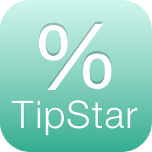
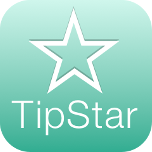
redesign

Changed region(s): [[0.1842, 0.0526, 0.7895, 0.6316], [0.2895, 0.6053, 0.3158, 0.6316]]

diff --git a/index.html b/index.html
@@ -1,5 +1,5 @@
 <!DOCTYPE html>
-<html ng-app="percenterApp" id="ng-app">
+<html ng-app="TipStarApp" id="ng-app">
 <!--[if lt IE 7]>      <html class="no-js lt-ie9 lt-ie8 lt-ie7"> <![endif]-->
 <!--[if IE 7]>         <html class="no-js lt-ie9 lt-ie8"> <![endif]-->
 <!--[if IE 8]>         <html class="no-js lt-ie9"> <![endif]-->
@@ -7,8 +7,8 @@
 <head>
     <meta charset="utf-8">
     <meta http-equiv="X-UA-Compatible" content="IE=edge,chrome=1">
-    <title>Percenter - A percentage calculator</title>
-    <meta name="description" content="A percentage calculator">
+    <title>Tip Star - A percentage calculator</title>
+    <meta name="description" content="A tip and percentage calculator">
     <meta name="viewport" content="width=device-width, initial-scale=1.0, maximum-scale=1.0, user-scalable=0">
 
     <link rel="stylesheet" href="css/bootstrap.min.css">
@@ -51,7 +51,7 @@
                 <span class="icon-bar"></span>
                 <span class="icon-bar"></span>
             </button>
-            <a class="navbar-brand" href="index.html">Percenter</a>
+            <a class="navbar-brand" href="index.html">Tip Star</a>
         </div>
         <div class="navbar-collapse collapse">
             <ul class="nav navbar-nav">
@@ -64,32 +64,32 @@
     <div class="jumbotron hero">
         <div class="container">
             <div class="heroBanner">
-                <h1>Percenter</h1>
-                <p>A free and simple percentage calculator app</p>
-                <p class="hidden-xs">with responsive design and offline capabilities.</p>
-                <p><a class="btn btn-primary btn-lg" role="button" style="margin-top: 5px" href="app.html">Start here &raquo;</a></p>
+                <h1>Tip Star</h1>
+                <p>A free tip and percentage calculator app.</p>
+                <p class="hidden-xs">Built with responsive design and offline mode, so you can use it on any device everywhere you go. Split the amount by people, round it all up and...</p>
+                <p><a class="btn btn-primary btn-lg" role="button" style="margin-top: 5px" href="app.html">Tip like a star &raquo;</a></p>
             </div>
          </div>
     </div>
 
 <article>
     <div class="container teaser">
-        <h2>Do you often find yourself ...</h2>
-        <p class="lead">wondering how much you really saved on those sale events? Or asking how much tip you and your friends have to pay? And wouldn't it be nice to know the final price including estimated tax before the end of checkout? The free Percenter app might have the answer for you ...</p>
+        <h2>There is more...</h2>
+        <p class="lead">Tip Star not only calculates tip, but als features a general purpose percentage calculator and a comparison mode. Now you can find out how much you really save during the next sale event. Or you could even use it to estimate taxes so the final price at checkout isn't a big surprise for you. And best of all? It's completely free. <a href="app.html">Try it now &raquo;</a></p>
     </div>
     <div class="container mainArticle">
         <h2>About</h2>
-        <p>Percenter is a simple percentage calculator that let’s you easily and instantly calculate percentages. Calculating discount, tax, or tip are just three of many examples where percentage calculation can help everyday.</p>
+        <p>Tip Star is a simple percentage calculator that let’s you easily and instantly calculate percentages. Calculating discount, tax, or tip are just three of many examples where percentage calculation can help everyday.</p>
         <p>The “apply” mode allows you to enter an amount and a percentage value. Different results based on your input are shown immediately. Besides adding (e.g. to calculate tips) and subtracting (discounts anyone?), it also calculates increase and reduction figures (would you like to know how much VAT you paid in Europe?). You can also easily divide the result by a number you specify. So splitting the bill becomes a little bit more easy.</p>
         <p>The “compare” mode works similar, but allows you to enter two amounts that the tool then compares. For example you could easily check how much they increased the rent this year again.</p>
         <p>The responsive app works on computers, tablets and mobile devices. The interface automatically adapts to provide you with the best user experience depending on your available screen size.</p>
-        <p>Not online? Not a problem. Percenter.us uses the new HTML5 offline feature, so that you can use the app whenever you need it.</p>
+        <p>Not online? Not a problem. Tip Star.us uses the new HTML5 offline feature, so that you can use the app whenever you need it.</p>
         <p>And best of it all? It’s absolutely free to use.</p>
 
         <h3>Mobile friendly</h3>
-        <img src="apple-touch-icon-57x57-precomposed.png" style="float: left; margin-right: 10px; width: 50px" alt="Percenter app icon"/>
+        <img src="apple-touch-icon-57x57-precomposed.png" style="float: left; margin-right: 10px; width: 50px" alt="Tip Star app icon"/>
         <p>This application supports multiple display formats and offline use. Please bookmark me!<br/>
-            If you are using an iPhone or iPad, you can also easily add Percenter to your home screen. In Safari just click on the little export icon with the arrow in the toolbar at the bottom.</p>
+            If you are using an iPhone or iPad, you can also easily add Tip Star to your home screen. In Safari just click on the little export icon with the arrow in the toolbar at the bottom.</p>
         <div class="row">
             <div class="col-sm-4">
                 <div class="figure" style="width: 226px">

diff --git a/legal.html b/legal.html
@@ -1,5 +1,5 @@
 <!DOCTYPE html>
-<html ng-app="percenterApp" id="ng-app" manifest="/application.manifest">
+<html ng-app="TipStarApp" id="ng-app" manifest="/application.manifest">
 <!--[if lt IE 7]>      <html class="no-js lt-ie9 lt-ie8 lt-ie7"> <![endif]-->
 <!--[if IE 7]>         <html class="no-js lt-ie9 lt-ie8"> <![endif]-->
 <!--[if IE 8]>         <html class="no-js lt-ie9"> <![endif]-->
@@ -7,8 +7,8 @@
 <head>
     <meta charset="utf-8">
     <meta http-equiv="X-UA-Compatible" content="IE=edge,chrome=1">
-    <title>Percenter - A percentage calculator</title>
-    <meta name="description" content="A percentage calculator">
+    <title>Tip Star - A percentage calculator</title>
+    <meta name="description" content="A tip and percentage calculator">
     <meta name="viewport" content="width=device-width, initial-scale=1.0, maximum-scale=1.0, user-scalable=0">
 
     <link rel="stylesheet" href="css/bootstrap.min.css">
@@ -51,7 +51,7 @@
                 <span class="icon-bar"></span>
                 <span class="icon-bar"></span>
             </button>
-            <a class="navbar-brand" href="index.html">Percenter</a>
+            <a class="navbar-brand" href="index.html">Tip Star</a>
         </div>
         <div class="navbar-collapse collapse">
             <ul class="nav navbar-nav">
@@ -64,12 +64,12 @@
 <article>
     <div class="container teaser">
         <h2>Legal Notices</h2>
-        <p class="lead">Percenter.us &copy; <a href="http://ruhkopf.name/">Patrick Ruhkopf</a> 2013-2014</p>
+        <p class="lead">TipStar.us &copy; <a href="http://ruhkopf.name/">Patrick Ruhkopf</a> 2013-2014</p>
     </div>
     <div class="container mainArticle">
         <h2>Terms of Use</h2>
         <ol>
-            <li>The following terms of use apply to all visitors to or users of the percenter.us Website (the "Site"). By accessing the Site, you acknowledge acceptance of these terms of use. In the case of any violation of these terms of use, the author reserves the right to seek all remedies available at law and in equity for such violations. The author may amend the terms of use from time to time in its discretion. You shall be bound by any such amendments and should therefore periodically visit this web page to review the then current terms of use to which you are bound.</li>
+            <li>The following terms of use apply to all visitors to or users of the TipStar.us Website (the "Site"). By accessing the Site, you acknowledge acceptance of these terms of use. In the case of any violation of these terms of use, the author reserves the right to seek all remedies available at law and in equity for such violations. The author may amend the terms of use from time to time in its discretion. You shall be bound by any such amendments and should therefore periodically visit this web page to review the then current terms of use to which you are bound.</li>
             <li>The site contents are copyrighted by Patrick Ruhkopf. All rights are reserved.</li>
             <li>Except as specified in these terms of use, nothing contained in the Site shall be construed as conferring any license or right under any patent, trademark or copyright of Patrick Ruhkopf or any third party. Any product, process, service, invention or technology published on this Site may be the subject of intellectual property rights preserved by Patrick Ruhkopf, its subsidiaries or licensors and are not licensed hereunder. No permission is granted to use Patrick Ruhkopf's name, logo, trademarks, trade names or trade dress for any reason.</li>
             <li>All information provided on this Site is intended for informational purposes only and is subject to change or withdrawal by Patrick Ruhkopf at any time without notice. Patrick Ruhkopf assumes no responsibility for the accuracy or completeness of the information on this Site. THE INFORMATION ON THIS SITE IS PROVIDED "AS IS," WITHOUT WARRANTY OF ANY KIND, INCLUDING, WITHOUT LIMITATION, ANY IMPLIED WARRANTIES OF MERCHANTABILITY, FITNESS FOR A PARTICULAR PURPOSE OR NON-INFRINGEMENT. PATRICK RUHKOPF FURTHER DISCLAIMS ANY LIABILITY IN CONNECTION WITH THE SITE OR THE INFORMATION PROVIDED ON THE SITE. Some jurisdictions do not allow the exclusion of implied warranties, so the above exclusion may not apply to you. IN NO EVENT WILL PATRICK RUHKOPF, ITS DIRECTORS, OFFICERS, EMPLOYEES, REPRESENTATIVES OR AGENTS BE LIABLE TO ANY PARTY FOR ANY DIRECT, INDIRECT, SPECIAL OR OTHER CONSEQUENTIAL DAMAGES FOR ANY USE OF THE SITE, THE INFORMATION PRESENTED ON THE SITE, OR ANY OTHER HYPERLINKED WEBSITE, INCLUDING, WITHOUT LIMITATION, ANY LOST PROFITS, BUSINESS INTERRUPTION, LOSS OF DATA OR OTHERWISE, EVEN IF PATRICK RUHKOPF IS EXPRESSLY ADVISED OF POSSIBILITY OF SUCH DAMAGES. </li>

diff --git a/css/main.css b/css/main.css
@@ -330,15 +330,17 @@ img.screenshot {
 
 
 @media screen and (min-width: 768px) {
-    .hero {
+    .hero .container {
         background-image: url('../img/percenter-app-hero.jpg');
         background-repeat:no-repeat;
-        background-position: center center;
+        background-position: right center;
+    }
+
+    .hero {
         text-align: center;
-        padding-bottom: 90px;
     }
     .heroBanner {
-        width: 500px;
+        width: 400px;
         margin-left: auto;
         margin-right: auto;
         padding: 10px 10px;
@@ -354,7 +356,13 @@ img.screenshot {
     }
 
     .heroBanner {
-        padding: 10px 10px;
+        width: 375px;
+    }
+}
+
+@media screen and (min-width: 1170px) {
+    .heroBanner {
+        width: 500px;
     }
 }
 
@@ -366,9 +374,12 @@ h1 {
 }
 
 .heroBanner {
-    background-color: rgba(255, 255, 255, 0.7);
-    margin-left: auto;
+    background-color: rgba(223, 240, 216, 0.7);
+    margin-left: 0px;
     margin-right: auto;
+    color: #FFFFFF;
+    text-shadow: 0px 1px 1px rgba(0, 0, 0, 1);
+    font-family: "HelveticaNeue-Thin", "Helvetica Neue Thin", "Helvetica Neue", Helvetica, Arial, "Lucida Grande", sans-serif;
 }
 
 .heroBanner h1 {
@@ -377,6 +388,11 @@ h1 {
 
 .jumbotron {
     margin-bottom: 0px;
+    padding: 0px;
+}
+
+.jumbotron .container {
+    padding:0px;
 }
 
 .teaser {
@@ -391,9 +407,9 @@ h1 {
 
 @media only screen and (min-width: 480px) {
 
-/* ====================
-    INTERMEDIATE: Menu
-   ==================== */
+    /* ====================
+        INTERMEDIATE: Menu
+       ==================== */
 
     nav a {
         float: left;
@@ -411,9 +427,9 @@ h1 {
         margin-right: 0;
     }
 
-/* ========================
-    INTERMEDIATE: IE Fixes
-   ======================== */
+    /* ========================
+        INTERMEDIATE: IE Fixes
+       ======================== */
 
     nav ul li {
         display: inline;
@@ -426,20 +442,20 @@ h1 {
 
 @media only screen and (min-width: 768px) {
 
-/* ====================
-    WIDE: CSS3 Effects
-   ==================== */
+    /* ====================
+        WIDE: CSS3 Effects
+       ==================== */
 
     .header-container,
     .main aside {
         -webkit-box-shadow: 0 5px 10px #aaa;
-           -moz-box-shadow: 0 5px 10px #aaa;
-                box-shadow: 0 5px 10px #aaa;
+        -moz-box-shadow: 0 5px 10px #aaa;
+        box-shadow: 0 5px 10px #aaa;
     }
 
-/* ============
-    WIDE: Menu
-   ============ */
+    /* ============
+        WIDE: Menu
+       ============ */
 
     .title {
         float: left;
@@ -450,9 +466,9 @@ h1 {
         width: 38%;
     }
 
-/* ============
-    WIDE: Main
-   ============ */
+    /* ============
+        WIDE: Main
+       ============ */
 
     .main article {
         float: left;
@@ -467,9 +483,9 @@ h1 {
 
 @media only screen and (min-width: 1140px) {
 
-/* ===============
-    Maximal Width
-   =============== */
+    /* ===============
+        Maximal Width
+       =============== */
 
     .wrapper {
         width: 1026px; /* 1140px - 10% for margins */

diff --git a/app.html b/app.html
@@ -1,5 +1,5 @@
 <!DOCTYPE html>
-<html ng-app="percenterApp" id="ng-app" manifest="/application.manifest">
+<html ng-app="TipStarApp" id="ng-app" manifest="/application.manifest">
 <!--[if lt IE 7]>      <html class="no-js lt-ie9 lt-ie8 lt-ie7"> <![endif]-->
 <!--[if IE 7]>         <html class="no-js lt-ie9 lt-ie8"> <![endif]-->
 <!--[if IE 8]>         <html class="no-js lt-ie9"> <![endif]-->
@@ -7,8 +7,8 @@
     <head>
         <meta charset="utf-8">
         <meta http-equiv="X-UA-Compatible" content="IE=edge,chrome=1">
-        <title>Percenter - A percentage calculator</title>
-        <meta name="description" content="A percentage calculator">
+        <title>Tip Star - A percentage calculator</title>
+        <meta name="description" content="A tip and percentage calculator">
         <meta name="viewport" content="width=device-width, initial-scale=1.0, maximum-scale=1.0, user-scalable=0">
 
         <link rel="stylesheet" href="css/bootstrap.min.css">
@@ -54,7 +54,7 @@
                 <span class="icon-bar"></span>
                 <span class="icon-bar"></span>
               </button>
-              <a class="navbar-brand" href="index.html">Percenter</a>
+              <a class="navbar-brand" href="index.html">Tip Star</a>
             </div>
             <div class="navbar-collapse collapse">
               <ul class="nav navbar-nav">
@@ -66,7 +66,7 @@
           </div>
         </div>
 
-        <div class="container" ng-controller="PercenterCtrl">
+        <div class="container mainArticle" ng-controller="TipStarCtrl">
             <div class="tab-content">
 
                 <div class="tab-pane fade in active" id="calculateTip">
@@ -368,9 +368,9 @@
 
             <div class="container nopadding">
                 <h3>Mobile friendly</h3>
-                <img src="apple-touch-icon-57x57-precomposed.png" style="float: left; margin-right: 10px; width: 50px" alt="Percenter app icon"/>
+                <img src="apple-touch-icon-57x57-precomposed.png" style="float: left; margin-right: 10px; width: 50px" alt="Tip Star app icon"/>
                 <p>This application supports multiple display formats and offline use. Please bookmark me!<br/>
-                   If you are using an iPhone or iPad, you can also easily add Percenter to your home screen. In Safari just click on the little export icon with the arrow in the toolbar at the bottom. <a href="#" ng-click="showDetails = !showDetails">Click here for more details.</a> </p>
+                   If you are using an iPhone or iPad, you can also easily add Tip Star to your home screen. In Safari just click on the little export icon with the arrow in the toolbar at the bottom. <a href="#" ng-click="showDetails = !showDetails">Click here for more details.</a> </p>
 
                 <div ng-if="details" ng-include="details"></div>
             </div>

diff --git a/js/controllers.js b/js/controllers.js
@@ -1,6 +1,6 @@
-var percenterApp = angular.module('percenterApp', []);
+var tipStarApp = angular.module('TipStarApp', []);
 
-percenterApp.controller('PercenterCtrl', function ($scope, $rootScope)
+tipStarApp.controller('TipStarCtrl', function ($scope, $rootScope)
 {
     readCookies();
 
@@ -104,7 +104,7 @@ percenterApp.controller('PercenterCtrl', function ($scope, $rootScope)
     function readCookies()
     {
         $.cookie.json = true;
-        var cookieData = $.cookie('percenter');
+        var cookieData = $.cookie('tipstar');
         if (cookieData)
         {
             if (!$scope.percentage && cookieData.percentage) {
@@ -139,12 +139,12 @@ percenterApp.controller('PercenterCtrl', function ($scope, $rootScope)
             "compareNumberB" : $scope.compareNumberB,
         };
 
-        $.cookie('percenter', cookieData, { expires: 365 });
+        $.cookie('tipstar', cookieData, { expires: 365 });
     }
 
 });
 
-percenterApp.controller('HomeScreenCtrl', function ($scope, $rootScope)
+tipStarApp.controller('HomeScreenCtrl', function ($scope, $rootScope)
 {
     $scope.activeTabId = "calculateTip";
 
@@ -159,7 +159,7 @@ percenterApp.controller('HomeScreenCtrl', function ($scope, $rootScope)
     $scope.$watch('showDetails', function (newValue, oldValue)
     {
         if (newValue) {
-            $scope.details = "partials/how-to-add-percenter-to-home-screen.html";
+            $scope.details = "partials/how-to-add-tip-star-to-home-screen.html";
         }
         else {
             $scope.details = null;
